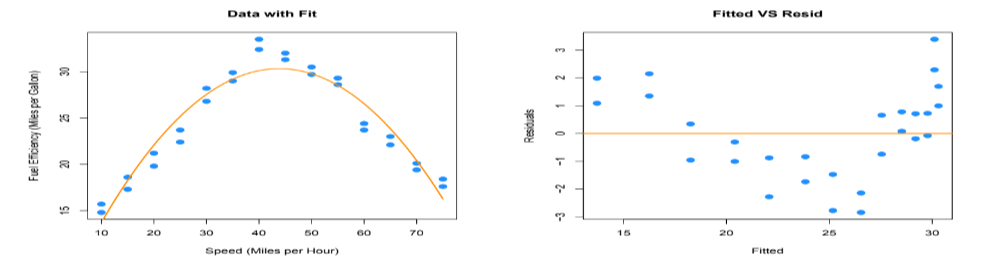
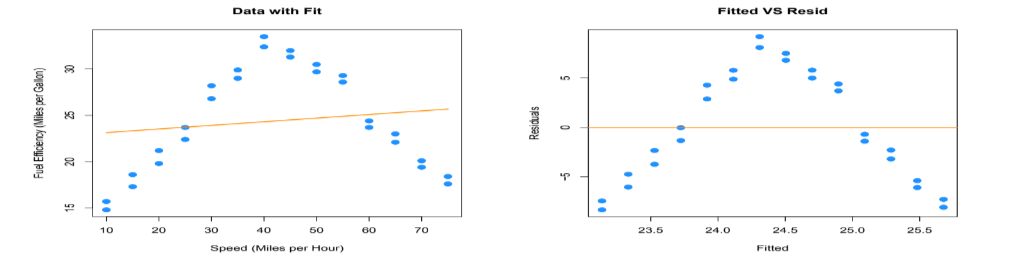
Update

diff --git a/Theory/7 - TRANSFORMATIONS.md b/Theory/7 - TRANSFORMATIONS.md
@@ -286,7 +286,7 @@ Instead of testing the car at every conceivable speed (which would be impossible
 
 Our goal then, is to fit a model to this data in order to be able to predict fuel efficiency when driving at certain speeds
 
-![polyyex](https://github.com/PayThePizzo/Predictive-Analysis-Notes/blob/main/resources/polyex.png?raw=TRUE)
+![polyyex](https://github.com/PayThePizzo/Predictive-Analysis-Notes/blob/main/resources/polycarex.png?raw=TRUE)
 
 We see a pattern but it is no linear pattern! Let's say we are very stubborn and wish to fit a SLR to this data
 
@@ -345,6 +345,10 @@ Multiple R-squared: 0.9188, Adjusted R-squared: 0.9123
 F-statistic: 141.5 on 2 and 25 DF, p-value: 2.338e-14
 ```
 ![poly](https://github.com/PayThePizzo/Predictive-Analysis-Notes/blob/main/resources/poly.png?raw=TRUE)
+
+While this model clearly fits much better, and the second order term is significant, we still see a pattern in the fitted versus residuals plot which suggests higher order terms will help.
+
+Also, we would expect the curve to flatten as speed increases or decreases, not go sharply downward as we see here.
 
 ---
 
